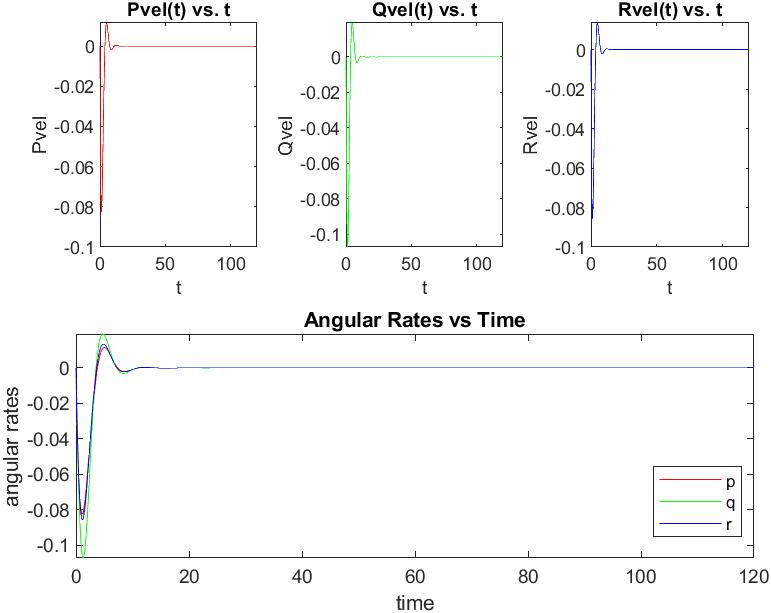
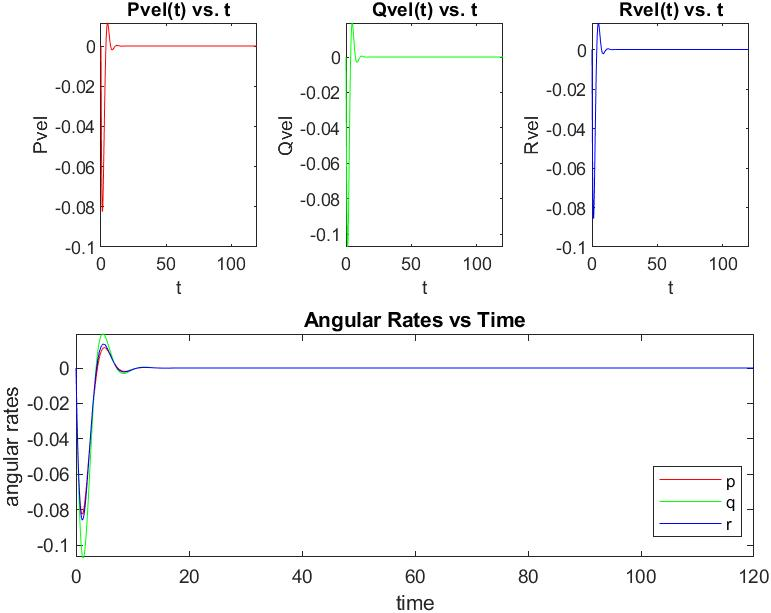
options back

diff --git a/AERSP304_Proj2.m b/AERSP304_Proj2.m
@@ -18,19 +18,19 @@ I = [ 4.85*10^-3 , 0, 0 ;
      0 , 0 , 8.80*10^-3 ] ;
 
 % setting ODE45 options
-options = odeset('reltol',1e-6,'abstol',1e-6);
+options = odeset('reltol',1e-12,'abstol',1e-12);
 
 % Question 1
 init = zeros(12,1);
 t = linspace(0,6,1200) ;
-[t,d] = ode45(@(t,d) Q1fun(t,d,I), t , init);
+[t,d] = ode45(@(t,d) Q1fun(t,d,I), t , init, options);
 
 ploter(t,d,'1')
 
 %Question 2
 init = [0,0,0,0,1,0,10*pi/180,0,10*pi/180,0,10*pi/180,0] ;
 t = linspace(0,120,1200) ;
-[t,a] = ode45(@(t,d) Q2fun(t,d,I,[10,0,0,0,0,0,0,0]), t , init);
+[t,a] = ode45(@(t,d) Q2fun(t,d,I,[10,0,0,0,0,0,0,0]), t , init, options);
 %[~,rotorSpeeds] = Q2fun(t,d,I,[10,0,0,0,0,0,0,0]) ;
 
 ploter(t,a,'2')
